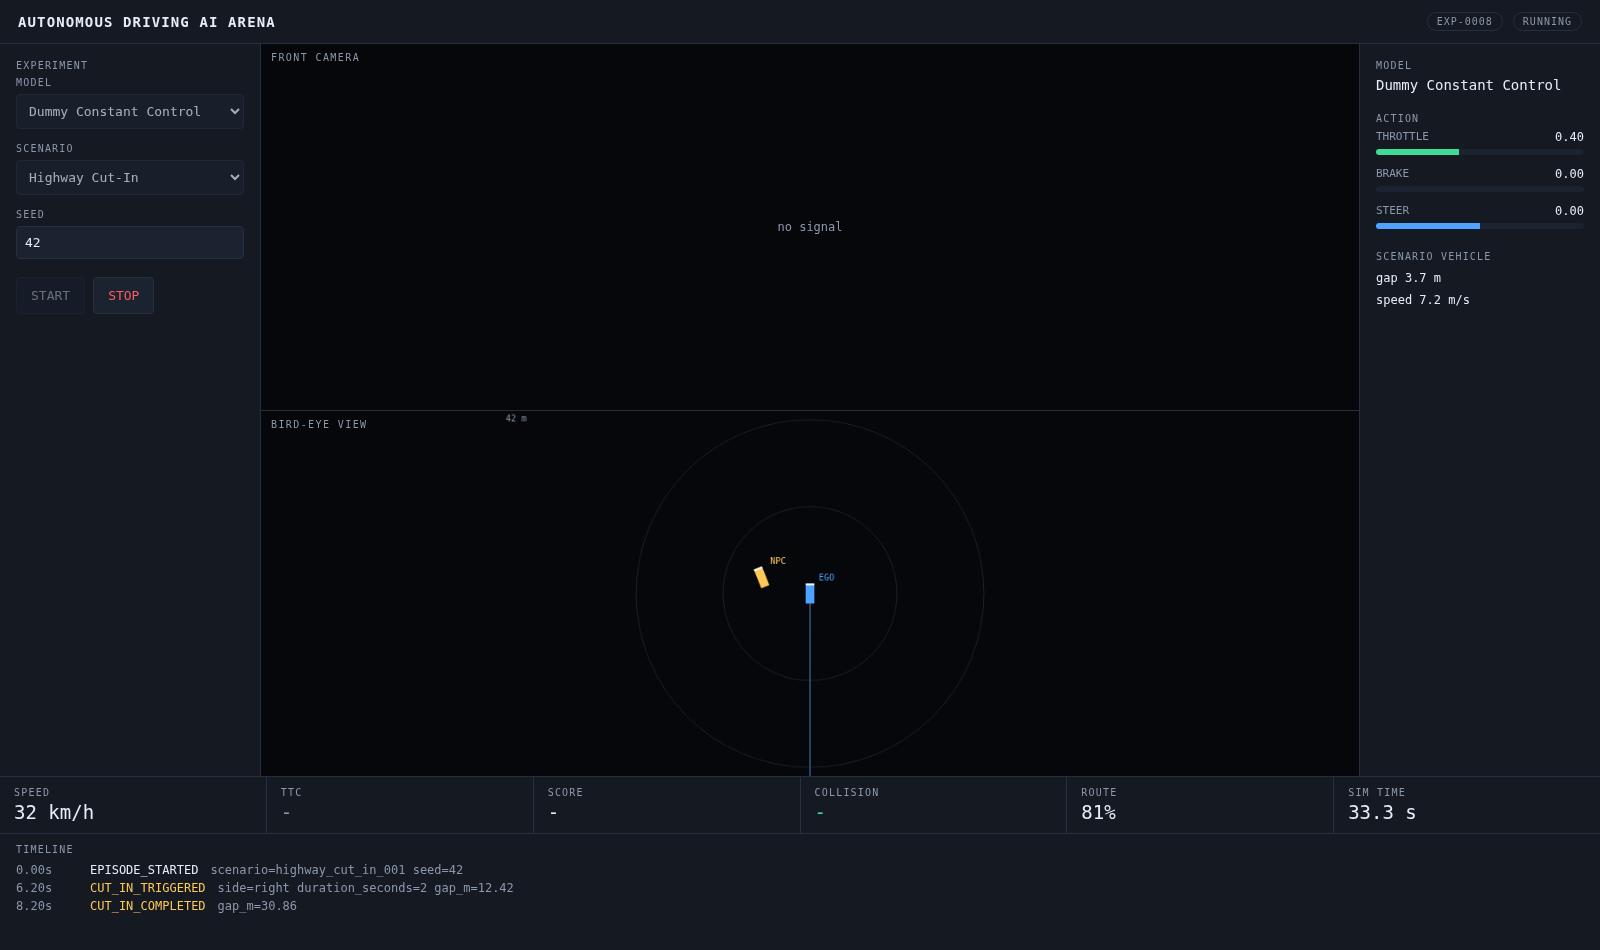
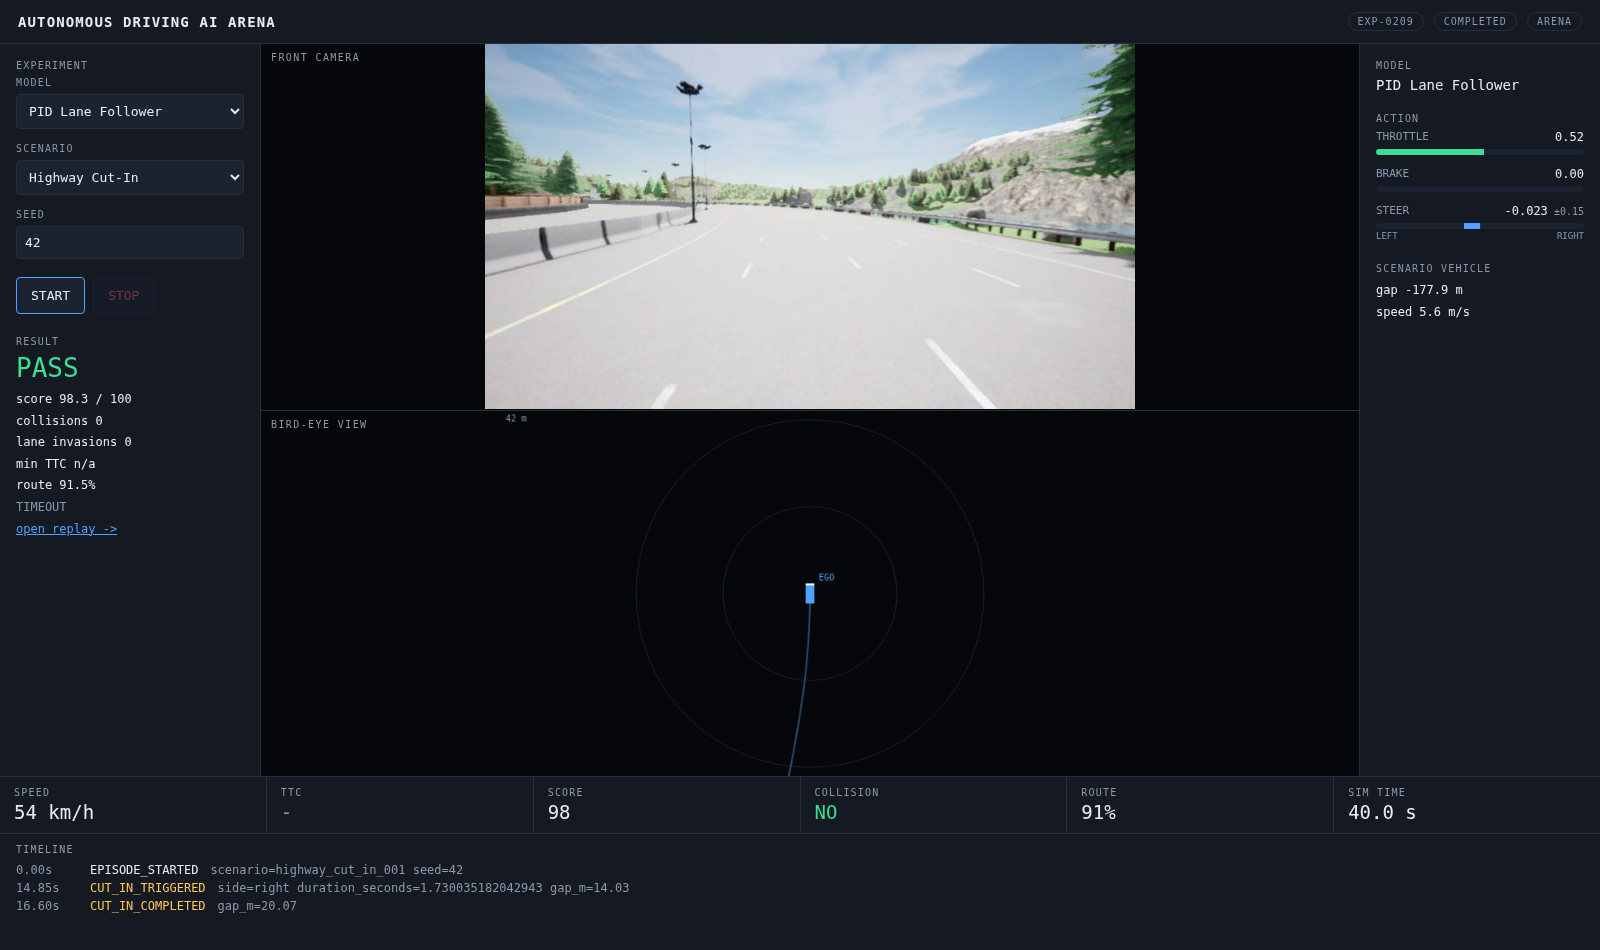
Make the demo usable: readable steering, a working default model, one-command startup
Three things a real demo run exposed.

The steering bar was unreadable. It mapped -1..1 onto the full width, but on a
highway the expert steers about 0.03, so the bar moved 1.5% and looked broken -
it was read as "the car cannot turn". Steering now gets a centre-origin bar on
a +/-0.15 scale that widens only when a model actually asks for more, with the
scale shown next to the value. Extracted as ActionBars and shared by the live
and replay pages, which had the same code inline twice.

The model dropdown defaulted to whichever id sorted first, which was cnn_il -
the one model that fails the scenario. So the out-of-the-box experience was a
crash. Order is now part of the registry (display_order in models.yaml, migration
0003), and PID Lane Follower comes first.

scripts/demo.sh brings the whole platform up and prints where to watch it, and
the API's CORS origins are configurable so the dashboard can be opened from
another machine.

Measured after the change: default model PID, steering reads -0.023 +/-0.15 with
a visible offset, PASS at 98.3.

152 tests pass.

diff --git a/frontend/components/ActionBars.tsx b/frontend/components/ActionBars.tsx
@@ -1,0 +1,109 @@
+"use client";
+
+// The model's current action, drawn so it can actually be read.
+//
+// Throttle and brake use their full 0..1 range, so a plain bar is fine. Steering
+// does not: on a highway the expert steers about 0.03 out of a possible 1.0, so
+// a full-scale bar moves 1.5% and looks broken. Measured across the three
+// shipped models, steering never left +/-0.05.
+//
+// So steering gets a centre-origin bar on a zoomed scale that widens only when
+// the model actually asks for more. Small corrections are visible; a hard swerve
+// still fits.
+
+const STEER_SCALES = [0.15, 0.4, 1.0];
+
+function steerScale(value: number): number {
+  const magnitude = Math.abs(value);
+  return STEER_SCALES.find((scale) => magnitude <= scale) ?? 1.0;
+}
+
+export default function ActionBars({
+  throttle = 0,
+  brake = 0,
+  steer = 0,
+}: {
+  throttle?: number;
+  brake?: number;
+  steer?: number;
+}) {
+  const scale = steerScale(steer);
+  // Fraction of half-width, clamped so a NaN or out-of-range value cannot
+  // draw outside the track.
+  const steerFraction = Math.max(-1, Math.min(1, (steer || 0) / scale));
+
+  return (
+    <>
+      {(
+        [
+          ["THROTTLE", throttle, "var(--good)"],
+          ["BRAKE", brake, "var(--bad)"],
+        ] as [string, number, string][]
+      ).map(([name, value, colour]) => (
+        <div key={name} style={{ marginBottom: 12 }}>
+          <div style={{ display: "flex", justifyContent: "space-between" }}>
+            <span className="muted" style={{ fontSize: 11 }}>
+              {name}
+            </span>
+            <span style={{ fontSize: 12 }}>{(value || 0).toFixed(2)}</span>
+          </div>
+          <div className="bar">
+            <div
+              style={{
+                width: `${Math.max(0, Math.min(1, value || 0)) * 100}%`,
+                background: colour,
+              }}
+            />
+          </div>
+        </div>
+      ))}
+
+      <div style={{ marginBottom: 12 }}>
+        <div style={{ display: "flex", justifyContent: "space-between" }}>
+          <span className="muted" style={{ fontSize: 11 }}>
+            STEER
+          </span>
+          <span style={{ fontSize: 12 }}>
+            {(steer || 0).toFixed(3)}
+            <span className="muted" style={{ fontSize: 10 }}> ±{scale}</span>
+          </span>
+        </div>
+        {/* Centre-origin: the fill grows left or right from the middle. */}
+        <div className="bar" style={{ position: "relative" }}>
+          <div
+            style={{
+              position: "absolute",
+              left: "50%",
+              top: 0,
+              bottom: 0,
+              width: 1,
+              background: "var(--line)",
+            }}
+          />
+          <div
+            style={{
+              position: "absolute",
+              top: 0,
+              bottom: 0,
+              left: steerFraction >= 0 ? "50%" : `${50 + steerFraction * 50}%`,
+              width: `${Math.abs(steerFraction) * 50}%`,
+              background: "var(--accent)",
+            }}
+          />
+        </div>
+        <div
+          style={{
+            display: "flex",
+            justifyContent: "space-between",
+            fontSize: 9,
+            marginTop: 2,
+          }}
+          className="muted"
+        >
+          <span>LEFT</span>
+          <span>RIGHT</span>
+        </div>
+      </div>
+    </>
+  );
+}

diff --git a/frontend/app/replay/[id]/page.tsx b/frontend/app/replay/[id]/page.tsx
@@ -9,6 +9,7 @@
 
 import { use, useCallback, useEffect, useRef, useState } from "react";
 import BirdEyeView from "../../../components/BirdEyeView";
+import ActionBars from "../../../components/ActionBars";
 import { API_BASE, type Tick } from "../../../lib/api";
 
 type Replay = {
@@ -200,30 +201,11 @@ export default function ReplayPage({
 
         <div className="panel">
           <div className="label">ACTION</div>
-          {(
-            [
-              ["THROTTLE", tick?.throttle ?? 0, "var(--good)", 0, 1],
-              ["BRAKE", tick?.brake ?? 0, "var(--bad)", 0, 1],
-              ["STEER", tick?.steer ?? 0, "var(--accent)", -1, 1],
-            ] as [string, number, string, number, number][]
-          ).map(([name, value, colour, min, max]) => (
-            <div key={name} style={{ marginBottom: 12 }}>
-              <div style={{ display: "flex", justifyContent: "space-between" }}>
-                <span className="muted" style={{ fontSize: 11 }}>
-                  {name}
-                </span>
-                <span style={{ fontSize: 12 }}>{value.toFixed(2)}</span>
-              </div>
-              <div className="bar">
-                <div
-                  style={{
-                    width: `${((value - min) / (max - min)) * 100}%`,
-                    background: colour,
-                  }}
-                />
-              </div>
-            </div>
-          ))}
+          <ActionBars
+            throttle={tick?.throttle}
+            brake={tick?.brake}
+            steer={tick?.steer}
+          />
 
           <div style={{ marginTop: 20, fontSize: 12, lineHeight: 1.8 }}>
             <div className="label">SCENARIO VEHICLE</div>

diff --git a/frontend/app/page.tsx b/frontend/app/page.tsx
@@ -2,6 +2,7 @@
 
 import { useCallback, useEffect, useRef, useState } from "react";
 import BirdEyeView from "../components/BirdEyeView";
+import ActionBars from "../components/ActionBars";
 import {
   api,
   telemetryUrl,
@@ -272,30 +273,11 @@ export default function Dashboard() {
           </div>
 
           <div className="label">ACTION</div>
-          {(
-            [
-              ["THROTTLE", tick?.throttle ?? 0, "var(--good)", 0, 1],
-              ["BRAKE", tick?.brake ?? 0, "var(--bad)", 0, 1],
-              ["STEER", tick?.steer ?? 0, "var(--accent)", -1, 1],
-            ] as [string, number, string, number, number][]
-          ).map(([name, value, colour, min, max]) => (
-            <div key={name} style={{ marginBottom: 12 }}>
-              <div style={{ display: "flex", justifyContent: "space-between" }}>
-                <span className="muted" style={{ fontSize: 11 }}>
-                  {name}
-                </span>
-                <span style={{ fontSize: 12 }}>{value.toFixed(2)}</span>
-              </div>
-              <div className="bar">
-                <div
-                  style={{
-                    width: `${((value - min) / (max - min)) * 100}%`,
-                    background: colour,
-                  }}
-                />
-              </div>
-            </div>
-          ))}
+          <ActionBars
+            throttle={tick?.throttle}
+            brake={tick?.brake}
+            steer={tick?.steer}
+          />
 
           <div style={{ marginTop: 22 }}>
             <div className="label">SCENARIO VEHICLE</div>

diff --git a/backend/main.py b/backend/main.py
@@ -8,6 +8,7 @@ that results can point at with a foreign key.
 
 from __future__ import annotations
 
+import os
 import sys
 from contextlib import asynccontextmanager
 from pathlib import Path
@@ -45,6 +46,7 @@ def sync_registries() -> tuple[int, int]:
                     row.endpoint = entry["endpoint"]
                     row.timeout_ms = int(entry.get("timeout_ms", 500))
                     row.gpu = entry.get("gpu")
+                    row.display_order = int(entry.get("display_order", 100))
                     db.merge(row)
                     models += 1
 
@@ -91,9 +93,14 @@ app.include_router(ws_router)
 # The dashboard is served from a different origin during development.
 from fastapi.middleware.cors import CORSMiddleware  # noqa: E402
 
+# The dashboard runs on a different origin, and on a different host when the
+# demo is watched from another machine. ARENA_CORS_ORIGINS is a comma-separated
+# list; the loopback origins are always allowed.
+_extra = [o.strip() for o in os.environ.get("ARENA_CORS_ORIGINS", "").split(",")
+          if o.strip()]
 app.add_middleware(
     CORSMiddleware,
-    allow_origins=["http://localhost:3000", "http://127.0.0.1:3000"],
+    allow_origins=["http://localhost:3000", "http://127.0.0.1:3000", *_extra],
     allow_methods=["*"],
     allow_headers=["*"],
 )

diff --git a/backend/migrations/versions/0003_model_display_order.py b/backend/migrations/versions/0003_model_display_order.py
@@ -1,0 +1,30 @@
+"""Model display order.
+
+The dashboard selects the first model in the list by default, and sorting by id
+put cnn_il first - the one model that fails the scenario. Order belongs to the
+registry (configs/models.yaml) rather than to the UI.
+
+Revision ID: 0003
+Revises: 0002
+"""
+from __future__ import annotations
+
+import sqlalchemy as sa
+from alembic import op
+
+revision = "0003"
+down_revision = "0002"
+branch_labels = None
+depends_on = None
+
+
+def upgrade() -> None:
+    op.add_column(
+        "models",
+        sa.Column("display_order", sa.Integer(), nullable=False,
+                  server_default="100"),
+    )
+
+
+def downgrade() -> None:
+    op.drop_column("models", "display_order")

diff --git a/backend/database/models.py b/backend/database/models.py
@@ -40,6 +40,8 @@ class Model(Base):
     endpoint: Mapped[str] = mapped_column(String(128))
     timeout_ms: Mapped[int] = mapped_column(Integer, default=500)
     gpu: Mapped[int | None] = mapped_column(Integer, nullable=True)
+    #: Order in the dashboard list; the first entry is selected by default.
+    display_order: Mapped[int] = mapped_column(Integer, default=100)
     created_at: Mapped[datetime] = mapped_column(DateTime(timezone=True), default=utcnow)
 
     experiments: Mapped[list["Experiment"]] = relationship(back_populates="model")

diff --git a/backend/api/routes.py b/backend/api/routes.py
@@ -42,7 +42,7 @@ def manager(request: Request):
 # --- models --------------------------------------------------------------
 @router.get("/models", response_model=list[ModelOut], tags=["models"])
 def list_models(db: Session = Depends(get_session)):
-    return db.query(Model).order_by(Model.id).all()
+    return db.query(Model).order_by(Model.display_order, Model.id).all()
 
 
 @router.post("/models", response_model=ModelOut, status_code=201, tags=["models"])

diff --git a/backend/schemas.py b/backend/schemas.py
@@ -17,6 +17,7 @@ class ModelOut(BaseModel):
     endpoint: str
     timeout_ms: int
     gpu: Optional[int] = None
+    display_order: int = 100
 
 
 class ModelIn(BaseModel):
@@ -28,6 +29,7 @@ class ModelIn(BaseModel):
     type: str = "CONTROL_POLICY"
     timeout_ms: int = 500
     gpu: Optional[int] = None
+    display_order: int = 100
 
 
 class ModelHealth(BaseModel):
